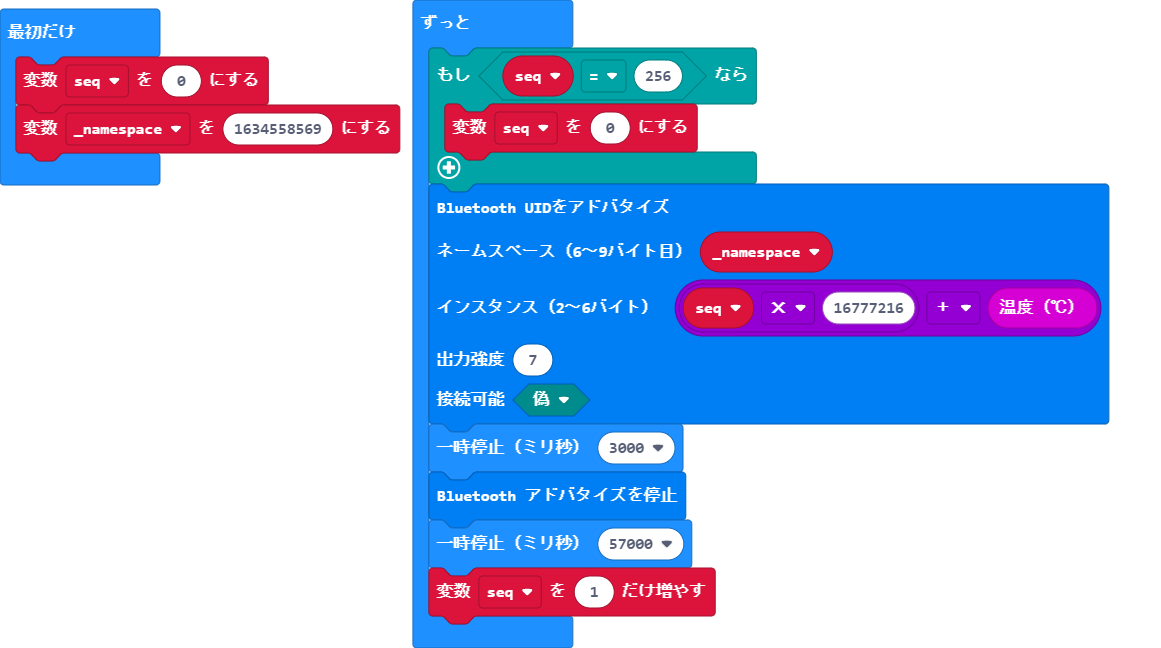
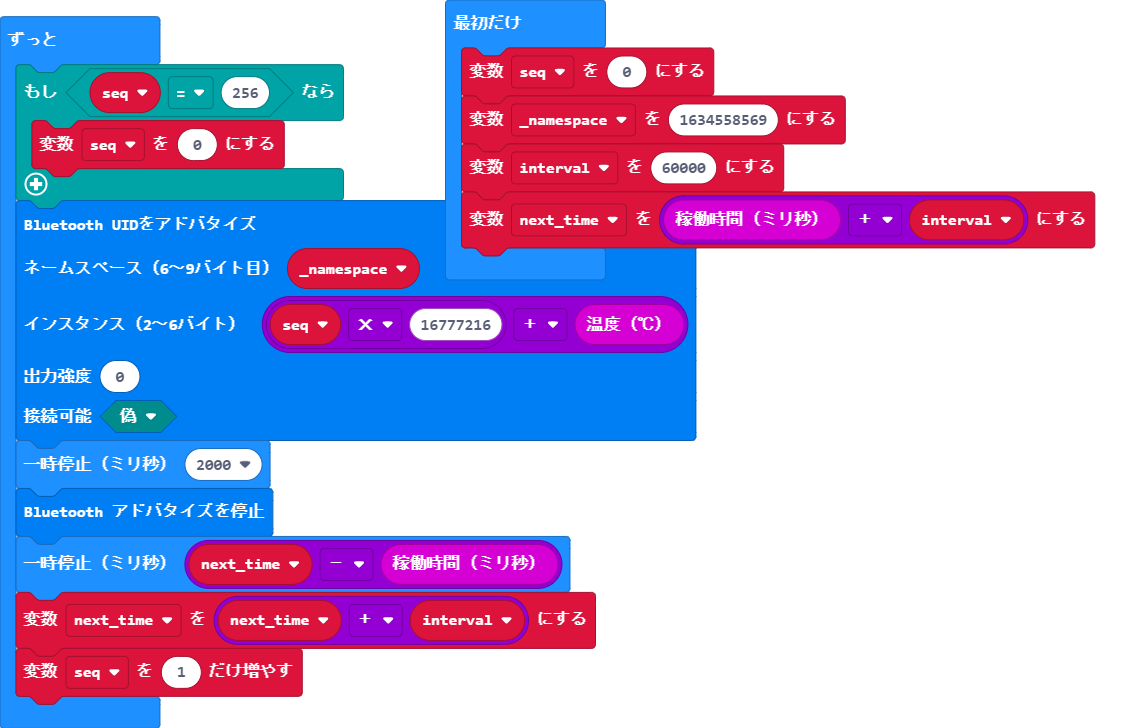
use elapsed time for interval

diff --git a/main.ts b/main.ts
@@ -1,5 +1,7 @@
 let seq = 0
 let _namespace = 1634558569
+let interval = 60000
+let next_time = input.runningTime() + interval
 basic.forever(function () {
     if (seq == 256) {
         seq = 0
@@ -7,11 +9,12 @@ basic.forever(function () {
     bluetooth.advertiseUid(
     _namespace,
     seq * 16777216 + input.temperature(),
-    7,
+    0,
     false
     )
-    basic.pause(3000)
+    basic.pause(2000)
     bluetooth.stopAdvertising()
-    basic.pause(57000)
+    basic.pause(next_time - input.runningTime())
+    next_time = next_time + interval
     seq += 1
 })
